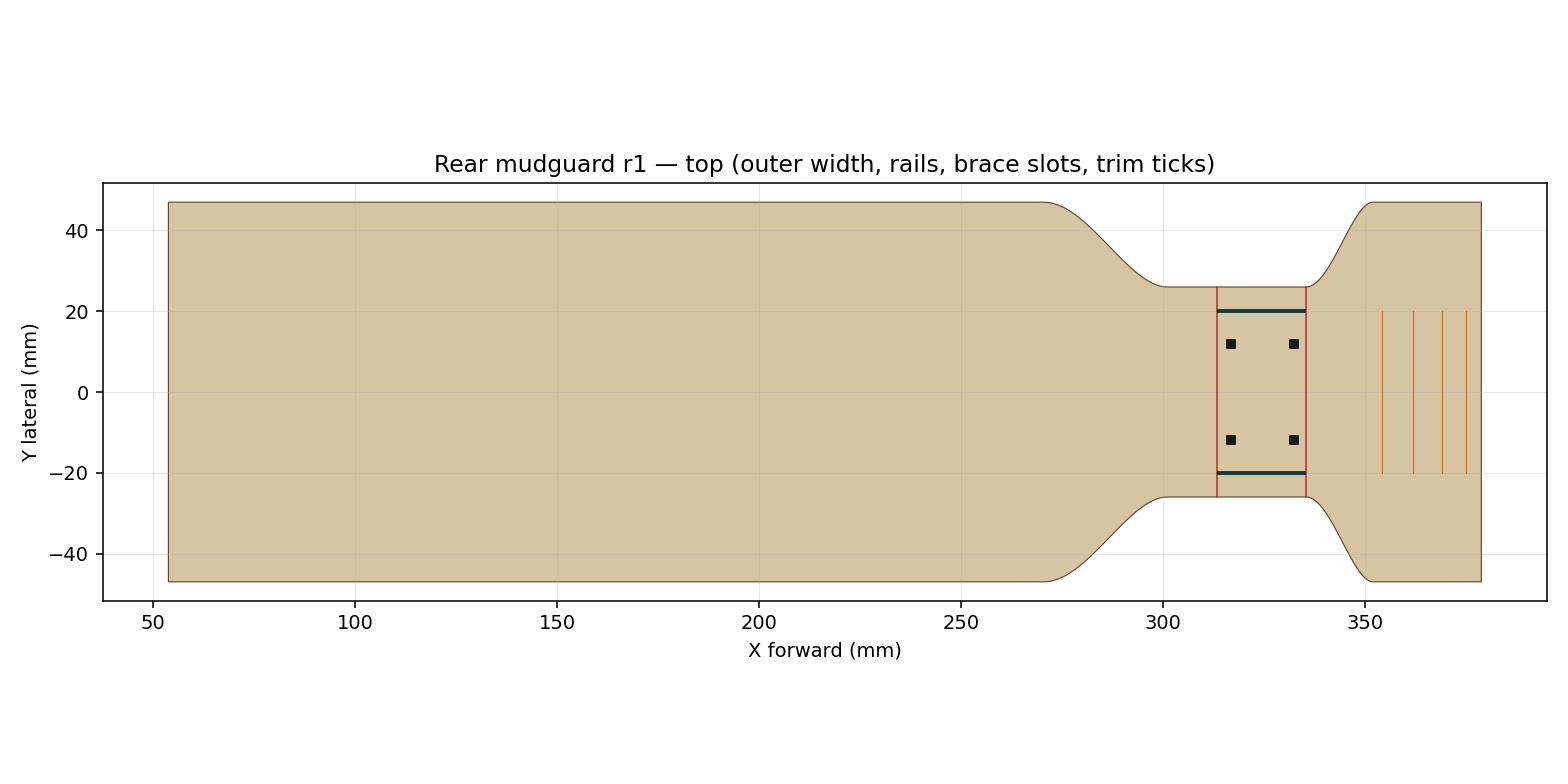
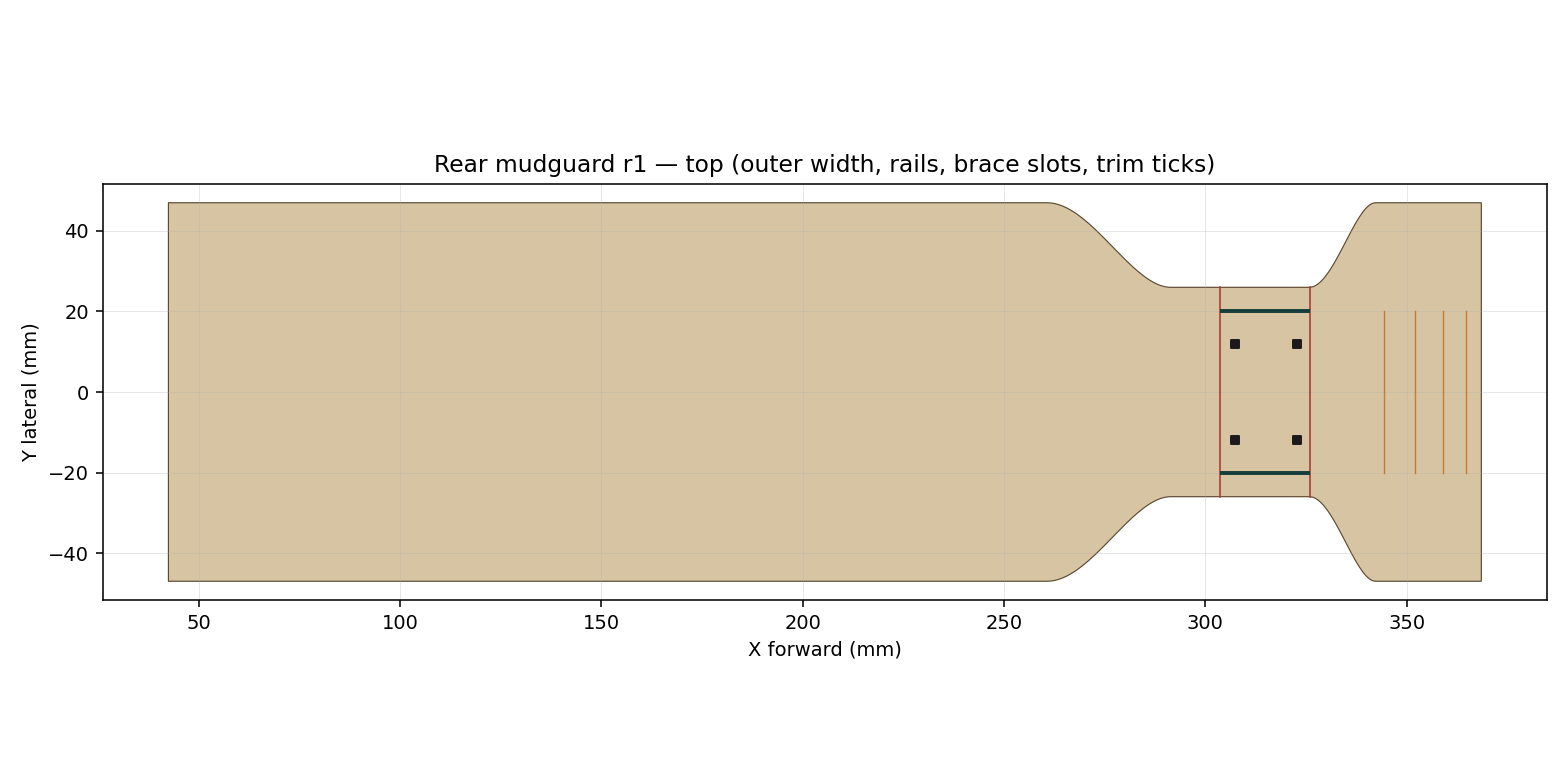
rear r2: brace gap of 30 mm sets the guard radius
The measured brace underside is 30 mm off the tyre, so the lap plate outer is R 378.5 and the 1.5 mm pad bears on R 380. Section depth is 17 mm and the lower stay tab ends at d 27.5 so the tyre gap stays above 15 mm. B still fits the bed at s +330.

diff --git a/featurescript/rear/rear_r1_model.py b/featurescript/rear/rear_r1_model.py
@@ -21,16 +21,19 @@ import numpy as np
 from matplotlib.patches import Polygon
 
 # ---------------------------------------------------------------- constants
-R = 390.0
+# James measured the brace underside 30 mm off the tyre tread. That radius
+# drives the guard: the 1.5 mm pad sits on the plate, so the plate outer is
+# tyre + braceGap - pad.
+TYRE_R = 350.0
+BRACE_GAP = 30.0
+PAD = 1.5
+R_BRACE = TYRE_R + BRACE_GAP  # 380, brace underside
+R = R_BRACE - PAD  # 378.5, outer lap plate and main guard top
 WALL = 2.5
 LAP_WALL = 3.0
-TYRE_R = 350.0
 TYRE_W = 63.5
 TYRE_RAD = TYRE_W / 2.0
 TYRE_C = TYRE_R - TYRE_RAD
-PAD = 1.5
-R_BRACE = R + PAD  # plastic bears on the brace through the pad
-BRACE_GAP_EST = 38.0  # low-confidence tyre-crown to brace-underside estimate
 PHI0 = math.radians(33.6)
 
 S_A0, S_A1 = -135.0, 20.0
@@ -44,8 +47,9 @@ NECK_A = 26.0  # outer half-width, 52 mm
 WIDE_A = 47.0  # 94 mm, inside the 90-95 band and 3 mm off a 100 mm gap
 NECK_R = 4.0
 WIDE_R = 12.0
-# 22 mm radial depth is what puts the bare shell on the planner's 245.1 x 245.7 bed box.
-SECTION_H = 22.0
+# At R 378.5 a 22 mm wall bottom is inside the 15 mm tyre gap. 17 mm keeps the
+# tongue's inner wall, the closest point, just over 15 mm.
+SECTION_H = 17.0
 LAP_CLEAR = 0.2
 
 RIB = 3.0
@@ -67,14 +71,14 @@ RAIL_Y, RAIL_W, RAIL_H = 20.0, 3.0, 1.2
 GROOVE_W, GROOVE_D = 3.6, 1.5
 RAIL_CHAMFER = 4.0
 
-# Stay tabs. A radial stay and a 63.5 mm torus cannot host a 3 mm tab at
-# d=55 with both 15 mm tyre gap and 3 mm side clearance (even a razor edge
-# is 0.5 mm short). The tab stops at the last depth that holds both.
+# Stay tabs. With the brace at R 380 the old d=40 / d=44 stations are inside
+# the tyre clearance. The lower slot is the deepest 6 mm slot whose inner face
+# stays at or above 15 mm; the tab ends just past that slot.
 TAB_S = 16.0
 TAB_D0 = 8.0
-TAB_D1 = 44.0
+TAB_D1 = 27.5
 TAB_THK = 3.0
-TAB_SLOT_D = (20.0, 40.0)  # requested lower station was "about 55"
+TAB_SLOT_D = (20.0, 24.0)
 SIDE_CLR = 3.0
 LIP_A = 1.8
 LIP_B = 2.0
@@ -579,15 +583,16 @@ def build_report() -> dict:
     bedA = best_bed(silhouette("A"))
     bedB = best_bed(silhouette("B"))
     s_tdc = (math.pi / 2.0 - PHI0) * R
+    phi_tail = math.degrees(PHI0 + S_B1 / R)
+    to_tdc = 90.0 - phi_tail
     d55 = counterfactual_d55()
     # slot alignment: both layers are cut at the same s in the assembled model
     align = 0.0
     volA = vols["volA"] / 1000.0
     volB = vols["volB"] / 1000.0
     L22, W22 = bedB["at22"][2], bedB["at22"][3]
-    # present the 22 deg box as length x width, longer side first was already stored
     text = (
-        f"REAR-R1 parts=2"
+        f"REAR-R2 parts=2"
         f" volA={volA:.2f}"
         f" volB={volB:.2f}"
         f" minTyreGap={clr['tyre']['gap']:.2f}"
@@ -596,6 +601,11 @@ def build_report() -> dict:
         f" bedB22={max(L22, W22):.1f}x{min(L22, W22):.1f}@22"
         f" bedBbest={bedB['best']['L']:.1f}x{bedB['best']['W']:.1f}@{bedB['best']['ang']:.1f}"
         f" slotAlignErr={align:.3f}"
+        f" tailS={S_B1:.0f}"
+        f" coverB={S_B1 - S_B0:.0f}"
+        f" degToTDC={to_tdc:.2f}"
+        f" sTDC={s_tdc:.1f}"
+        f" outerR={R:.1f}"
     )
     return {
         "text": text,
@@ -604,6 +614,8 @@ def build_report() -> dict:
         "bedA": bedA,
         "bedB": bedB,
         "sTdc": s_tdc,
+        "phiTail": phi_tail,
+        "toTdc": to_tdc,
         "d55": d55,
         "volA": volA,
         "volB": volB,
@@ -733,7 +745,7 @@ def render_rear(path: str):
     tyre_r = TYRE_C + TYRE_RAD * np.cos(circ)
     for ax, s, title in (
         (axes[0], 0.0, "neck at the brace, s=0"),
-        (axes[1], S_B1, "tail, from behind, s=+330"),
+        (axes[1], S_B1, f"tail, from behind, s={S_B1:+.0f}"),
     ):
         a, rad, h = section_params(s)
         wall = LAP_WALL if LAP0 <= s <= LAP1 else WALL
@@ -900,31 +912,40 @@ def write_verification(path: str, info: dict):
     bB = info["bedB"]
     L22, W22 = bB["at22"][2], bB["at22"][3]
     lines = [
-        "Rear mudguard r1 verification (offline, no Onshape)",
+        "Rear mudguard r2 verification (offline, no Onshape)",
         "source: featurescript/rear/rear_mudguard_r1.fs",
         "model: featurescript/rear/rear_r1_model.py",
         "bike: Amflow PR Carbon, 27.5 rear, Maxxis DHR II 27.5x2.5",
-        "layout: Split & Join Planner 1c",
+        "layout: Split & Join Planner 1c, brace gap measured at 30 mm",
         "",
         "COORDINATES",
         "  origin rear axle, +X forward, +Z up, +Y rider's left",
         "  phi from +X toward +Z, 90 deg at TDC",
         f"  phi(brace) = 33.6 deg, s = 0 there, +s toward TDC, R_top = {R:.1f}",
-        f"  TDC falls at s = {info['sTdc']:.1f} with these two numbers.",
-        "  The planner's 'TDC at s +405' would need phi(brace) = 30.5 deg at this R,",
-        "  or R = 411.5 at 33.6 deg. The part is built on 33.6 deg and R 390.",
+        f"  TDC is at s = {info['sTdc']:.1f}. Tail is s {S_B1:.0f}, phi {info['phiTail']:.2f} deg,",
+        f"  {info['toTdc']:.2f} deg before TDC.",
+        f"  B covers {S_B1 - S_B0:.0f} mm of arc, from s {S_B0:.0f} to s {S_B1:.0f}.",
         "",
         "PARTS",
         "  A  s -135 .. +20   outer lap plate, brace slots, front skirt, trim guides",
-        "  B  s -20 .. +330   inner tongue, brace slots, stay tabs, squared tail",
+        f"  B  s -20 .. {S_B1:.0f}   inner tongue, brace slots, stay tabs, squared tail",
         "  lap s -20 .. +20, B inside A, tongue tip butts the shoulder at s -20",
         "  6 ties: 2 brace (the s=±14 pair at each y) + 4 stay (one per tab slot)",
         "",
+        "RADIUS  braceGap drives the solid",
+        f"  measured brace underside to tyre tread = {BRACE_GAP:.0f} mm.",
+        f"  brace underside R = {TYRE_R:.0f} + {BRACE_GAP:.0f} = {R_BRACE:.1f}.",
+        f"  outer lap plate = {R_BRACE:.1f} - pad {PAD:.1f} = {R:.1f}. The pad bears on the brace.",
+        f"  lap plate inner = {R - LAP_WALL:.1f}. Tongue outer = {R - LAP_WALL - LAP_CLEAR:.1f}.",
+        f"  tongue inner = {R - (LAP_WALL + LAP_CLEAR + LAP_WALL):.1f}. Main shell inner = {R - WALL:.1f}.",
+        f"  The tie recess is {RECESS_D:.1f} mm outboard of the tongue inner face, so a flush",
+        f"  tie strand sits at R {R - (LAP_WALL + LAP_CLEAR + LAP_WALL):.1f},",
+        f"  {R - (LAP_WALL + LAP_CLEAR + LAP_WALL) - TYRE_R:.1f} mm off the tyre crown.",
+        "",
         "SECTION",
-        "  rounded U, vertical walls, radial depth 22 mm.",
-        "  22 mm is the depth whose bare annular sector lands on the planner bed target",
-        "  (B shell 245.1 x 244.9 against 245.1 x 245.7). Deeper walls still clear the tyre",
-        "  but push B over the 250 mm bed.",
+        f"  rounded U, vertical walls, radial depth {SECTION_H:.0f} mm.",
+        "  A 22 mm wall at this radius puts the neck inside the 15 mm tyre gap.",
+        "  17 mm keeps the tongue inner wall, the closest point, above 15 mm.",
         "  Neck outer width 52.0 from s -20 to +40 (corner R4).",
         "  Skirt and tail outer width 94 (corner R12).",
         "  Wall 2.5, lap and tabs 3.0. Lap radial clearance 0.2. Rails 3.0 x 1.2 at y=±20",
@@ -933,18 +954,8 @@ def write_verification(path: str, info: dict):
         "CLEARANCE",
         f"  min tyre gap {info['clr']['tyre']['gap']:.2f} mm at {info['clr']['tyre']['where']}",
         f"  min side clearance {info['clr']['side']:.2f} mm at {info['clr']['sideAt']}",
-        "  crown gap at the 2.5 mm wall: 387.5 - 350 = 37.5 mm (the 'about 34' nominal).",
-        f"  a 3 mm tab at the requested d=55 would have tyre gap {info['d55']:.2f} mm",
-        "  and still be 3.0 mm off the stay. A zero-thickness sheet there is about 14.5 mm",
-        "  off the tyre. Both floors cannot be met, so the lower slot is at d=40",
-        "  (spans 37..43) and the tab ends at d=44, where the inner face is still >= 15 mm.",
-        "  Tab width there is about 80 mm, not the 85 mm / 90-95 mm flare at d=50 / d=100.",
-        "",
-        "BRACE PAD",
-        f"  guard outer R {R:.1f} + pad {PAD:.1f} bears at radius {R_BRACE:.1f}.",
-        f"  estimated brace underside (tyre {TYRE_R:.0f} + gap {BRACE_GAP_EST:.0f}) is radius {TYRE_R + BRACE_GAP_EST:.1f}.",
-        f"  if that estimate is right the pad interferes by {R_BRACE - (TYRE_R + BRACE_GAP_EST):.1f} mm.",
-        "  braceGap is a parameter. The solid is built at R 390 as specified.",
+        f"  a 3 mm tab at d=55 is {info['d55']:.2f} mm off the tyre.",
+        f"  Lower slot d={TAB_SLOT_D[1]:.0f} (spans {TAB_SLOT_D[1]-3:.0f} to {TAB_SLOT_D[1]+3:.0f}), tab ends at d={TAB_D1:.1f}.",
         "",
         "VOLUME cm3  (section integral + features, mm3 below)",
         f"  volA {info['volA']:.2f}    volB {info['volB']:.2f}",
@@ -958,16 +969,10 @@ def write_verification(path: str, info: dict):
         "BED  polygon bbox of the side silhouette, rotation about Y",
         f"  A best {bA['best']['L']:.1f} x {bA['best']['W']:.1f} at {bA['best']['ang']:.1f} deg"
         f"   (axis-aligned {bA['axis'][0]:.1f} x {bA['axis'][1]:.1f})",
-        f"  B at a 22 deg world rotation {max(L22,W22):.1f} x {min(L22,W22):.1f} (does not fit)",
+        f"  B at a 22 deg world rotation {max(L22,W22):.1f} x {min(L22,W22):.1f}",
         f"  B best {bB['best']['L']:.1f} x {bB['best']['W']:.1f} at {bB['best']['ang']:.1f} deg",
-        "  The planner's 'about 22 deg' is the arc bisector measured from the brace:",
-        "  (330 + -20) / 2 = 155 mm = 22.8 deg. The chord is perpendicular to that bisector.",
-        "  Laying the chord on the plate diagonal is an 11 deg rotation from the bike axes,",
-        "  and that is the angle that squares the box.",
-        "  Bare 22 mm shell (no ribs, tabs or lip): B 245.1 x 244.9, the planner's 245.1 x 245.7.",
-        "  A at the same depth is about 121, against the planner's 'about 116'.",
-        "  The printed parts include ribs, the lip and the tabs, so the real boxes are the",
-        "  'best' numbers above. Usable bed 250 mm. P1S plate is 256.",
+        "  Usable bed 250 mm. The tail stays at s +330 because the smaller radius",
+        "  and the 17 mm depth both shrink the polygon.",
         "",
         "SLOT ALIGNMENT",
         "  tongue tip and shoulder are both at s=-20, slots of both layers are cut at s=±14.",
@@ -977,7 +982,7 @@ def write_verification(path: str, info: dict):
         "  " + info["text"],
         "",
         "MEASURE ON THE BIKE before printing",
-        "  1. Tyre crown radius (assumed 350) and the true crown-to-brace gap (assumed 38, low confidence).",
+        "  1. Tyre crown radius. The brace gap is now the measured 30 mm; the radius still assumes a 350 mm tyre.",
         "  2. Brace centreline angle from the forward horizontal (assumed 33.6 deg) and where TDC sits in s.",
         "  3. Seatstay inner gap at the brace, at 50 mm down and at 100 mm down (assumed 60 / 90 / 100).",
         "  4. Whether the stay below the brace points at the axle. If it stays higher, d=55 may become usable.",
